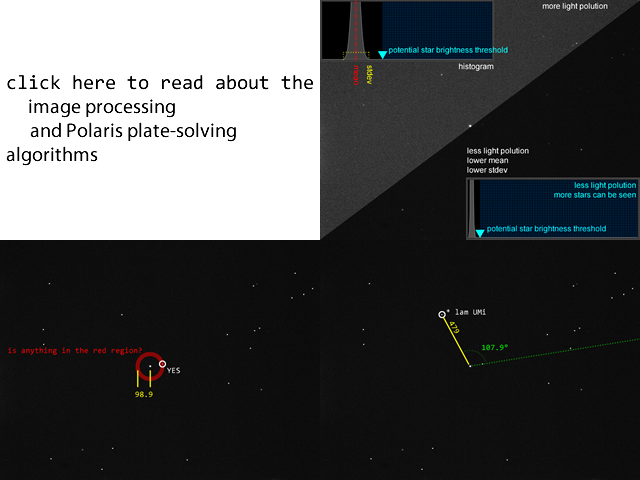
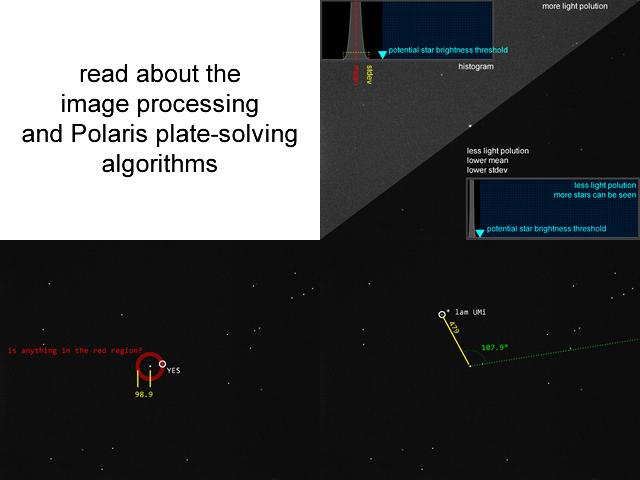
I don't think GitHub likes image links

Changed region(s): [[0.0, 0.125, 0.5, 0.375]]

diff --git a/README.md b/README.md
@@ -203,9 +203,11 @@ Since we are using computer code, the MicroPython time library uses seconds-sinc
 Plate Solving
 =============
 
-Plate-solving, "finding match between the imaged stars and a star catalogue", is actually quite complicated. In fact, most open source plate-solvers are simply an API that uploads to [nova.astrometry.net](https://nova.astrometry.net) and download the result, and that obviously requires an internet connection (good dark skies and phone signals don't usually mix), and takes up to 10 minutes for just one camera frame. My own plate-solving algorithm will need to be optimized for my weak hardware and specific use case. This algorithm is described on this separate page: [read it here!](doc/Main-Algorithm-Development.md) I show you real calculations and visualize what the code is actually doing!
+Plate-solving, "finding match between the imaged stars and a star catalogue", is actually quite complicated. In fact, most open source plate-solvers are simply an API that uploads to [nova.astrometry.net](https://nova.astrometry.net) and download the result, and that obviously requires an internet connection (good dark skies and phone signals don't usually mix), and takes up to 10 minutes for just one camera frame. My own plate-solving algorithm will need to be optimized for my weak hardware and specific use case. This algorithm is described on a separate page where I show you real calculations and visualize what the code is actually doing!
 
-[![read it here](doc/img/ad_for_the_next_page.png)](doc/Main-Algorithm-Development.md)
+![](doc/img/ad_for_the_next_page.png)
+
+[Read it HERE!](doc/Main-Algorithm-Development.md)
 
 Center Calibration
 ==================
